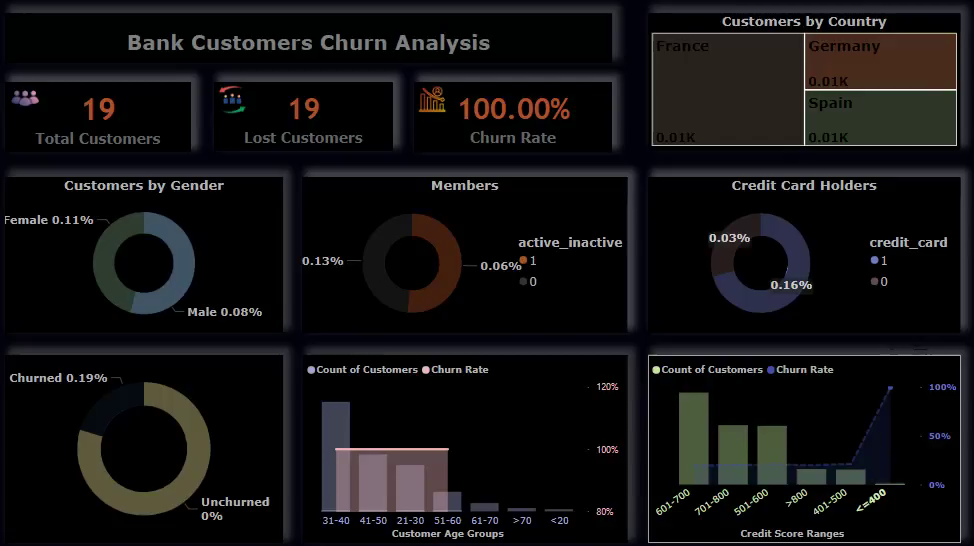
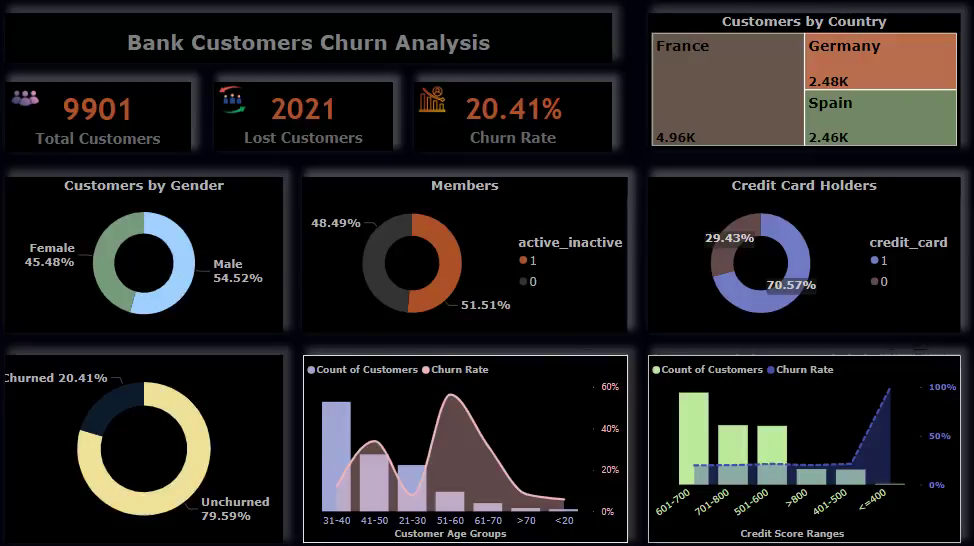
Polish animated dashboard preview and fix static screenshot
New GIF in the portfolio style: header, count-up KPI cards, dashboard
fade-in and a spotlight tour of every visual plus the drill-through page.
Static screenshot now shows the unfiltered dashboard.

Claude-Session: https://claude.ai/code/session_01BfjMq7RvDnXeexSNC4JdMF

diff --git a/README.md b/README.md
@@ -34,9 +34,9 @@ Customer-level banking data (≈10K customers): country, gender, age, credit sco
 
 ## 🔢 Headline KPIs
 
-| Total customers | Lost customers | Churn rate |
-|---|---|---|
-| 9,901 | 2,021 | 20.41% |
+| Total customers | Lost customers | Retained | Churn rate |
+|---|---|---|---|
+| 9,901 | 2,021 | 7,880 (79.59%) | 20.41% |
 
 ## 💡 Key insights
 
